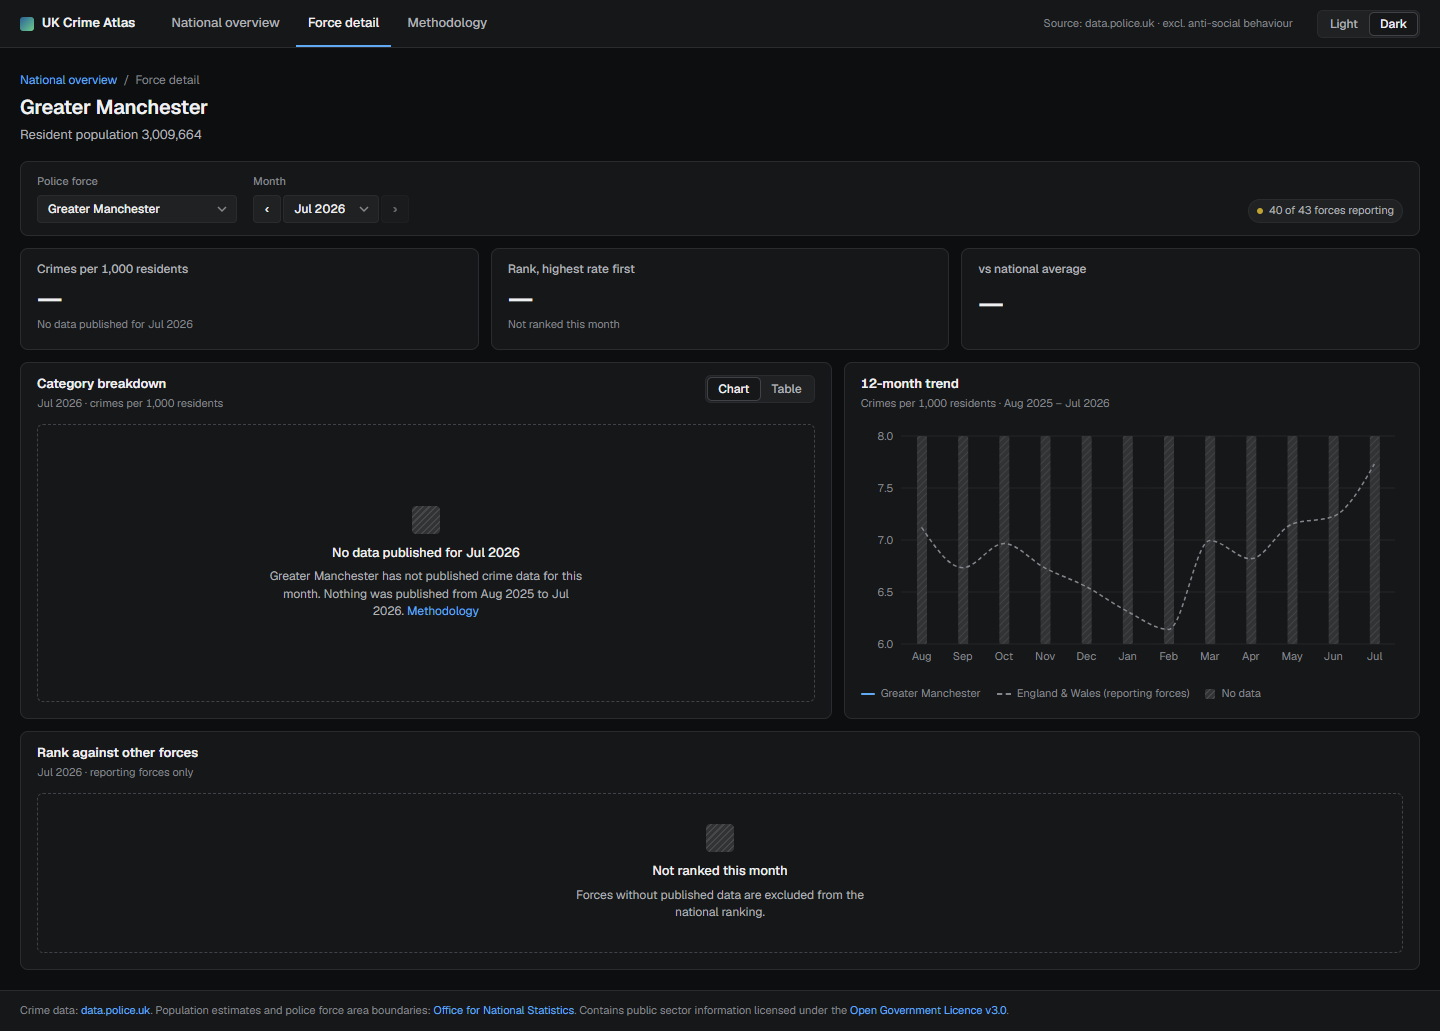
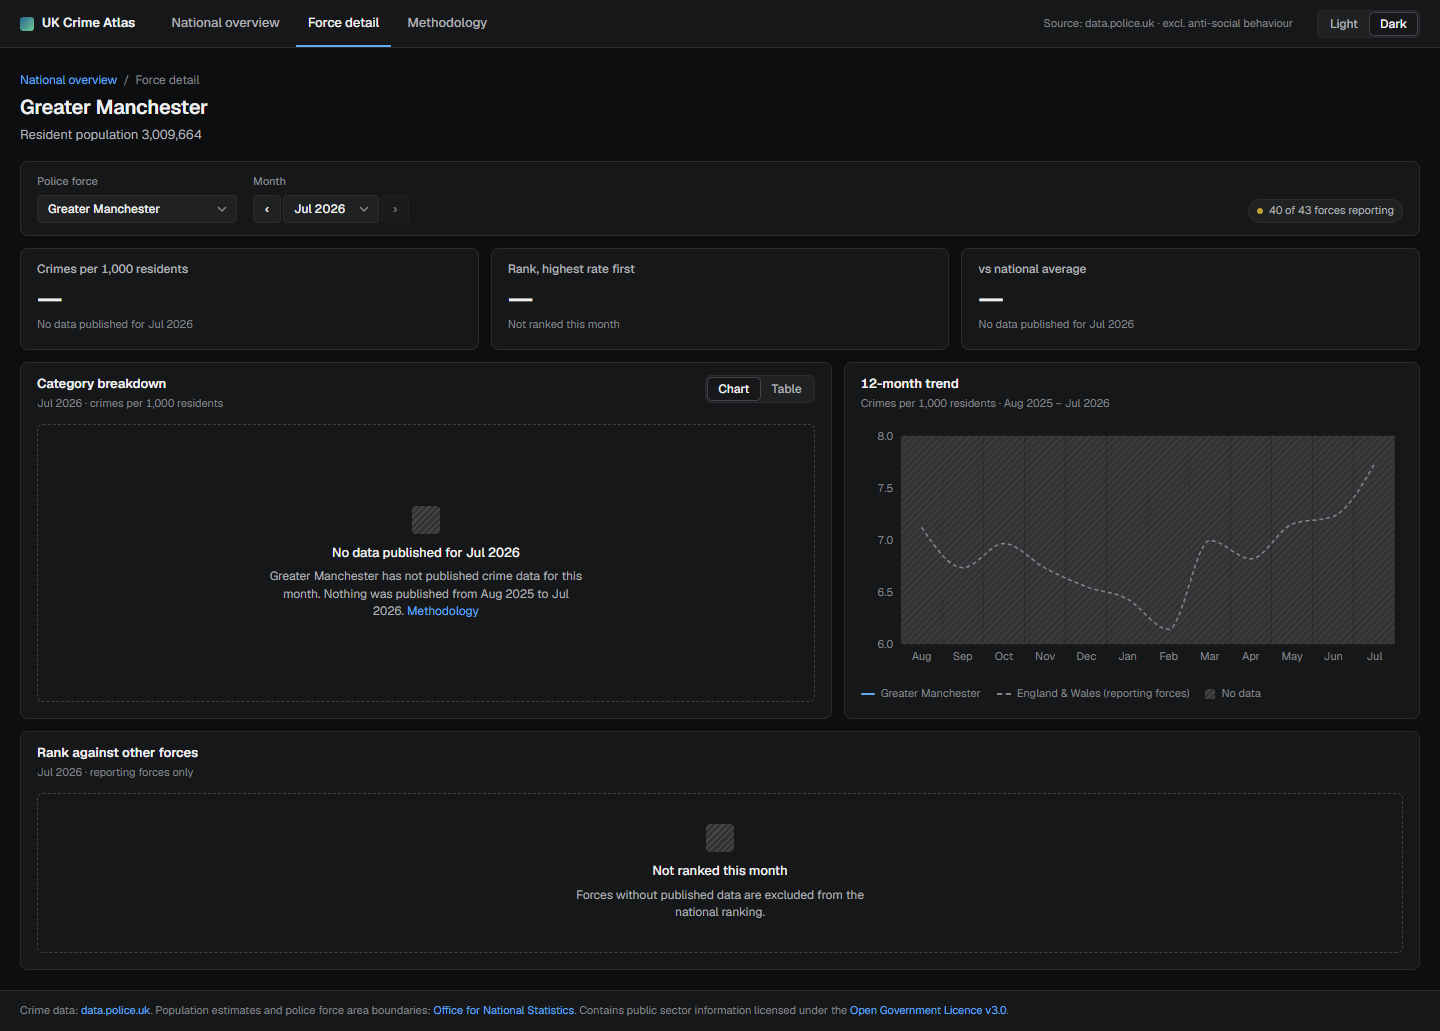
Phase 5: README, MIT licence, Node 24 engines; refresh README screenshots

Changed region(s): [[0.625, 0.4035, 0.9688, 0.6208], [0.6875, 0.3104, 0.7812, 0.3414]]

diff --git a/README.md b/README.md
@@ -1,0 +1,160 @@
+# UK Crime Atlas
+
+A dashboard of police-recorded crime for the 43 territorial police forces of England and Wales:
+a national choropleth map and a detail page per force, with every figure shown as a rate per
+1,000 residents so that forces of very different sizes can be compared.
+
+**Live:** _TBD after deploy_
+
+![National overview, dark theme](docs/screenshots/overview-dark.png)
+
+| Force detail | Force with no published data |
+| --- | --- |
+| ![West Yorkshire force page, dark theme](docs/screenshots/force-west-yorkshire-dark.png) | ![Greater Manchester force page showing the no-data state](docs/screenshots/force-greater-manchester-dark.png) |
+
+| Overview, light theme | Force detail, light theme |
+| --- | --- |
+| ![National overview, light theme](docs/screenshots/overview-light.png) | ![West Yorkshire force page, light theme](docs/screenshots/force-west-yorkshire-light.png) |
+
+## Features
+
+- **National overview**: choropleth of crimes per 1,000 residents by police force area, with a London
+  inset, legend and tooltip; KPI cards with a 12-month sparkline; crime categories chart.
+- **Force detail** (one static page per force): rate, rank among reporting forces, comparison with
+  the national average, category breakdown against the national rate (chart or table), 12-month
+  trend against England & Wales, and a rank plot where every dot links to another force.
+- **Month selector** kept in the URL (`?month=YYYY-MM`) and carried between pages.
+- **Honest gaps**: a force-month with no data is shown as "no data", never as zero, and is left out
+  of national figures, ranks and month-over-month changes.
+- Light and dark themes, keyboard-accessible controls, layouts from 390px to desktop.
+- Fully static: no API routes, no database, no client-side data fetching.
+
+## Data sources and licence
+
+| Data | Source |
+| --- | --- |
+| Crime | [data.police.uk](https://data.police.uk/data/) monthly street-level crime CSVs, latest 12 months in the archive (currently Aug 2025 – Jul 2026) |
+| Population | [Office for National Statistics](https://www.ons.gov.uk/) population estimates for police force areas, mid-2024 |
+| Boundaries | ONS Police Force Areas (December 2024), generalised (BGC), converted to TopoJSON |
+
+Contains public sector information licensed under the
+[Open Government Licence v3.0](https://www.nationalarchives.gov.uk/doc/open-government-licence/version/3/).
+The data files in `data/` and `public/geo/` are derived from these sources and remain under that
+licence. The code is under the [MIT licence](LICENSE).
+
+## Methodology in brief
+
+- **Rate** = recorded crimes ÷ resident population × 1,000, per force and month.
+- **Anti-social behaviour** is excluded (it is not recorded crime). **British Transport Police** and
+  the **Police Service of Northern Ireland** are excluded.
+- A force-month with **no rows is missing**, not zero. A force-month below 50% of that force's median
+  month is treated as an **incomplete** upload and excluded in the same way.
+- **National rates, averages and ranks** use only the forces reporting that month, for both crimes
+  and population. Ranks read "Nth of N reporting".
+- **Month-over-month changes** are like-for-like: only forces reporting in both months.
+- **Greater Manchester** has no street-level data in this window and always shows "no data".
+- **City of London** is shown, but left out of the "highest rate" card and clipped on the rank plot:
+  its small resident population inflates its rate.
+
+The full version, including which force-months are missing and why, is on the
+[`/methodology`](app/methodology/page.tsx) page of the app.
+
+## Stack
+
+- [Next.js](https://nextjs.org/) 16 (App Router), React 19, TypeScript strict; every page is static
+- Map: `d3-geo` + `topojson-client` rendering SVG (no tiles, no map library)
+- Charts: [Recharts](https://recharts.org/)
+- Tests: [Vitest](https://vitest.dev/)
+- Data pipeline: Python 3 + pandas, [mapshaper](https://github.com/mbloch/mapshaper) for the boundaries
+- Hosting: Vercel
+
+## Data pipeline
+
+```mermaid
+flowchart LR
+  A["data.police.uk<br/>archive zip"] --> I["scripts/ingest.py"]
+  P["ONS population<br/>xlsx"] --> I
+  B["ONS police force area<br/>boundaries"] --> I
+  I --> J["data/meta.json<br/>data/forces.json<br/>data/counts.json"]
+  I --> G["data/raw/pfa.geojson"]
+  G -- "npm run geo" --> T["public/geo/pfa.topo.json"]
+  J --> V["scripts/validate.py"]
+  T --> V
+  V --> R["data/reference.json"]
+  J --> N["Static Next.js build"]
+  T --> N
+  R -. "expected figures" .-> U["Vitest"]
+```
+
+The raw downloads live in `data/raw/` and are not committed. The generated JSON and TopoJSON are
+committed, so the app builds without Python.
+
+## Run locally
+
+Requires Node.js 24.
+
+```bash
+npm ci
+npm run dev        # http://localhost:3000
+npm run build      # production build
+npm run start      # serve the production build
+```
+
+## Refresh the data
+
+Requires Python 3.11 or newer. Commands are for Windows; use `.venv/bin/python` elsewhere.
+
+1. Create the virtual environment (once):
+   ```
+   py -3.14 -m venv .venv
+   .venv\Scripts\python -m pip install -r requirements.txt
+   ```
+2. In `scripts/ingest.py`, set `ARCHIVE_MONTH` to the newest month on
+   [data.police.uk/data/archive](https://data.police.uk/data/archive/) and `ARCHIVE_SIZE` to that
+   zip's size in bytes.
+3. Download `https://policeuk-data.s3.amazonaws.com/archive/<ARCHIVE_MONTH>.zip` (about 1.7 GB) to
+   `data/raw/`. `ingest.py` prints the URL and stops if the file is missing or the wrong size.
+4. Rebuild and check:
+   ```
+   .venv\Scripts\python scripts\ingest.py      # ONS downloads + aggregation -> data/
+   npm run geo                                 # boundaries -> public/geo/pfa.topo.json
+   .venv\Scripts\python scripts\validate.py    # sanity checks, writes data/reference.json
+   npm test
+   npm run build
+   ```
+5. Commit `data/*.json` and `public/geo/pfa.topo.json`. The app always shows the latest 12 months
+   in the archive and defaults to the newest.
+
+To compare one force-month with its raw CSV:
+`.venv\Scripts\python scripts\validate.py --spot kent 2026-06`
+
+## Tests
+
+```bash
+npm test       # Vitest: lib/ (rates, deltas, ranks, missing-data handling, formatting, month URLs)
+npm run lint
+```
+
+`lib/metrics.real.test.ts` checks the metrics against `data/reference.json`, which `validate.py`
+computes independently in Python from the same data.
+
+## Folder structure
+
+```
+app/           routes: / (overview), /force/[id], /methodology
+components/    map, charts, cards, filter bar
+lib/           data loading and metrics (rates, deltas, ranks); pure and tested
+data/          generated JSON (committed); data/raw/ holds downloads (not committed)
+public/geo/    pfa.topo.json
+scripts/       ingest.py, validate.py, force_lookup.csv
+design/        design export, reference only; never imported by the app
+docs/          PLAN.md (phases and acceptance checks), screenshots
+```
+
+## How this was built
+
+Built with [Claude Code](https://claude.com/claude-code) in five gated phases: scaffold and design
+system, data pipeline, national overview, force detail and methodology, ship. `CLAUDE.md` fixes
+the stack, data rules and conventions; `docs/PLAN.md` lists each phase with its acceptance checks.
+Each phase was planned in plan mode, reviewed, implemented, and verified against its checks before
+the next one started.

diff --git a/docs/PLAN.md b/docs/PLAN.md
@@ -51,6 +51,9 @@ Acceptance:
 
 ## Phase 5: Ship
 - Public GitHub repo, Vercel Hobby deploy, README (screenshots, sources, refresh steps, stack)
+- Layout check at 1440, 1100, 1024, 768 and 390px on every page; charts take an explicit width
+  from a ResizeObserver hook
+- LICENSE (MIT for code; data under OGL v3.0); package.json engines pins Node 24
 Acceptance:
 - [ ] live URL works; Lighthouse performance + accessibility ≥ 90
 - [ ] fresh clone → npm install && npm run build succeeds
